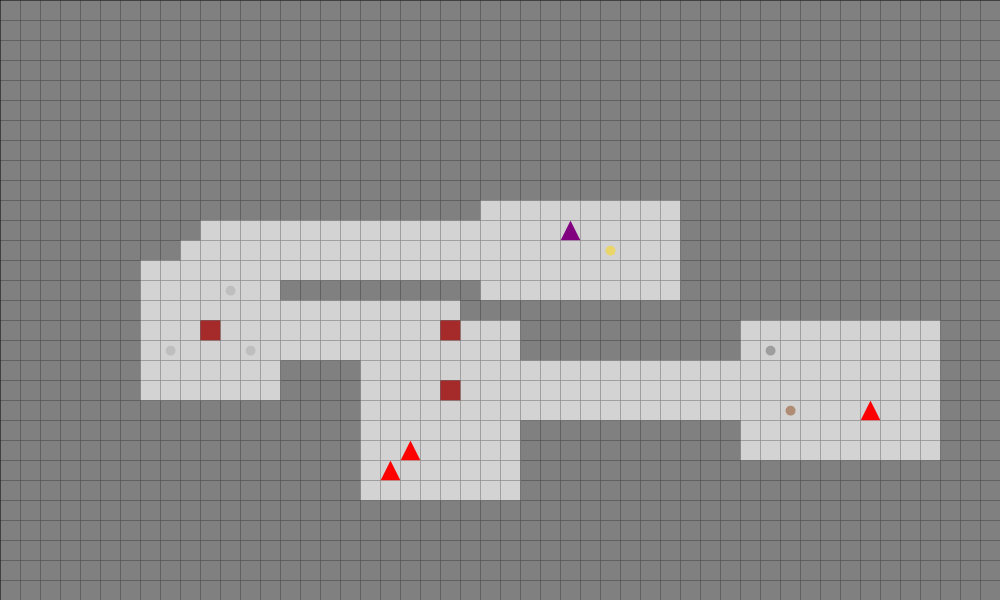
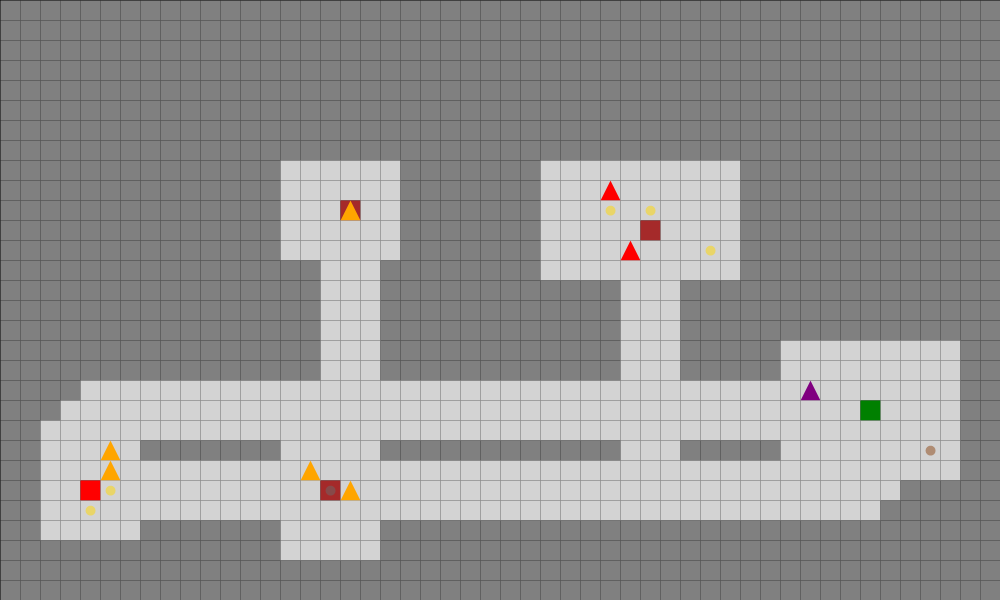
Add generation start and end position

Changed region(s): [[0.031, 0.24, 0.961, 0.96], [0.775, 0.63, 0.899, 0.72]]

diff --git a/src/ProceduralDungeon/ProceduralDungeon/Logic/Map/MapGenerator.cs b/src/ProceduralDungeon/ProceduralDungeon/Logic/Map/MapGenerator.cs
@@ -4,24 +4,23 @@
     {
         public readonly int MapWidth;
         public readonly int MapHeight;
-
         public TileType[,] Map { get; }
-        public List<Room> Rooms { get; }
+        public List<Room> Rooms { get; } = [];
 
         private readonly Random _random = new();
+
+        private Point _startPoint = new(0, 0);
+        private Point _exitPoint = new(0, 0);
 
         public MapGenerator(int width, int height)
         {
             MapWidth = width;
             MapHeight = height;
             Map = new TileType[MapWidth, MapHeight];
-            Rooms = new List<Room>();
 
             for (var x = 0; x < MapWidth; x++)
             for (var y = 0; y < MapHeight; y++)
-            {
                 Map[x, y] = TileType.Wall;
-            }
         }
 
         public void GenerateMap(int roomCount, int roomMinSize, int roomMaxSize)
@@ -44,7 +43,8 @@
 
                 var newRoom = new Room(roomX, roomY, roomWidth, roomHeight, roomType);
 
-                if (Rooms.Any(otherRoom => newRoom.Intersects(otherRoom))) continue;
+                if (Rooms.Any(otherRoom => newRoom.Intersects(otherRoom)))
+                    continue;
 
                 CreateRoom(newRoom);
 
@@ -56,15 +56,66 @@
 
                 Rooms.Add(newRoom);
             }
+
+
+            if (Rooms.Count > 0)
+            {
+                PlaceStartAndExit();
+            }
+            else
+            {
+                throw new InvalidOperationException("No rooms generated.");
+            }
+        }
+
+        private void PlaceStartAndExit()
+        {
+            Room startRoom = null;
+            Room exitRoom = null;
+            float maxDistance = 0;
+
+            foreach (var roomA in Rooms)
+            foreach (var roomB in Rooms)
+            {
+                if (roomA == roomB) continue;
+
+                var distance = CalculateDistance(roomA, roomB);
+
+                if (distance > maxDistance)
+                {
+                    maxDistance = distance;
+                    startRoom = roomA;
+                    exitRoom = roomB;
+                }
+            }
+
+            if (startRoom != null && exitRoom != null)
+            {
+                _startPoint = new Point(startRoom.CenterX, startRoom.CenterY);
+                _exitPoint = new Point(exitRoom.CenterX, exitRoom.CenterY);
+            }
+            else if (Rooms.Count == 1)
+            {
+                var room = Rooms[0];
+                _startPoint = _exitPoint = new Point(room.CenterX, room.CenterY);
+            }
+
+            Map[_startPoint.X, _startPoint.Y] = TileType.Start;
+            Map[_exitPoint.X, _exitPoint.Y] = TileType.Exit;
+        }
+
+        private float CalculateDistance(Room a, Room b)
+        {
+            int dx = a.CenterX - b.CenterX;
+            int dy = a.CenterY - b.CenterY;
+            return (float)Math.Sqrt(dx * dx + dy * dy);
         }
 
         private void CreateRoom(Room room)
         {
             for (var x = room.X; x < room.X + room.Width; x++)
             for (var y = room.Y; y < room.Y + room.Height; y++)
-            {
                 Map[x, y] = TileType.Floor;
-            }
         }
 
         private void CreateCorridor(Room roomA, Room roomB)
@@ -93,9 +144,7 @@
         private void PlaceDoor(int x, int y, Room room)
         {
             if (x >= room.X && x < room.X + room.Width && y >= room.Y && y < room.Y + room.Height)
-            {
                 Map[x, y] = TileType.Door;
-            }
         }
 
         private void CreateHorizontalCorridor(int x1, int x2, int y)
@@ -108,9 +157,7 @@
             {
                 var ny = y + dy;
                 if (ny >= 0 && ny < MapHeight)
-                {
                     Map[x, ny] = TileType.Floor;
-                }
             }
         }
 
@@ -124,9 +171,19 @@
             {
                 var nx = x + dx;
                 if (nx >= 0 && nx < MapWidth)
-                {
                     Map[nx, y] = TileType.Floor;
-                }
+            }
+        }
+
+        private struct Point
+        {
+            public int X { get; }
+            public int Y { get; }
+
+            public Point(int x, int y)
+            {
+                X = x;
+                Y = y;
             }
         }
     }

diff --git a/src/ProceduralDungeon/ProceduralDungeon/Types/TileType.cs b/src/ProceduralDungeon/ProceduralDungeon/Types/TileType.cs
@@ -5,6 +5,8 @@
         Empty,
         Wall,
         Floor,
-        Door
+        Door,
+        Start,
+        Exit,
     }
 }

diff --git a/src/ProceduralDungeon/ProceduralDungeon/Renderer/MultiImageDungeonRenderer.cs b/src/ProceduralDungeon/ProceduralDungeon/Renderer/MultiImageDungeonRenderer.cs
@@ -16,6 +16,8 @@ namespace ProceduralDungeon
                 TileType.Floor => Color.LightGray,
                 TileType.Door => Color.Brown,
                 TileType.Empty => Color.Black,
+                TileType.Start => Color.Red,
+                TileType.Exit => Color.Green,
                 _ => Color.Magenta
             };
         }

diff --git a/src/ProceduralDungeon/ProceduralDungeon/obj/Debug/net9.0/ProceduralDungeon.AssemblyInfo.cs b/src/ProceduralDungeon/ProceduralDungeon/obj/Debug/net9.0/ProceduralDungeon.AssemblyInfo.cs
@@ -13,7 +13,7 @@ using System.Reflection;
 [assembly: System.Reflection.AssemblyCompanyAttribute("ProceduralDungeon")]
 [assembly: System.Reflection.AssemblyConfigurationAttribute("Debug")]
 [assembly: System.Reflection.AssemblyFileVersionAttribute("1.0.0.0")]
-[assembly: System.Reflection.AssemblyInformationalVersionAttribute("1.0.0+2efa7f7482e615a4b4f83bdbb088d4cab331bd38")]
+[assembly: System.Reflection.AssemblyInformationalVersionAttribute("1.0.0+745861eed92be7c1498fec7d542ed27bf99ea00a")]
 [assembly: System.Reflection.AssemblyProductAttribute("ProceduralDungeon")]
 [assembly: System.Reflection.AssemblyTitleAttribute("ProceduralDungeon")]
 [assembly: System.Reflection.AssemblyVersionAttribute("1.0.0.0")]